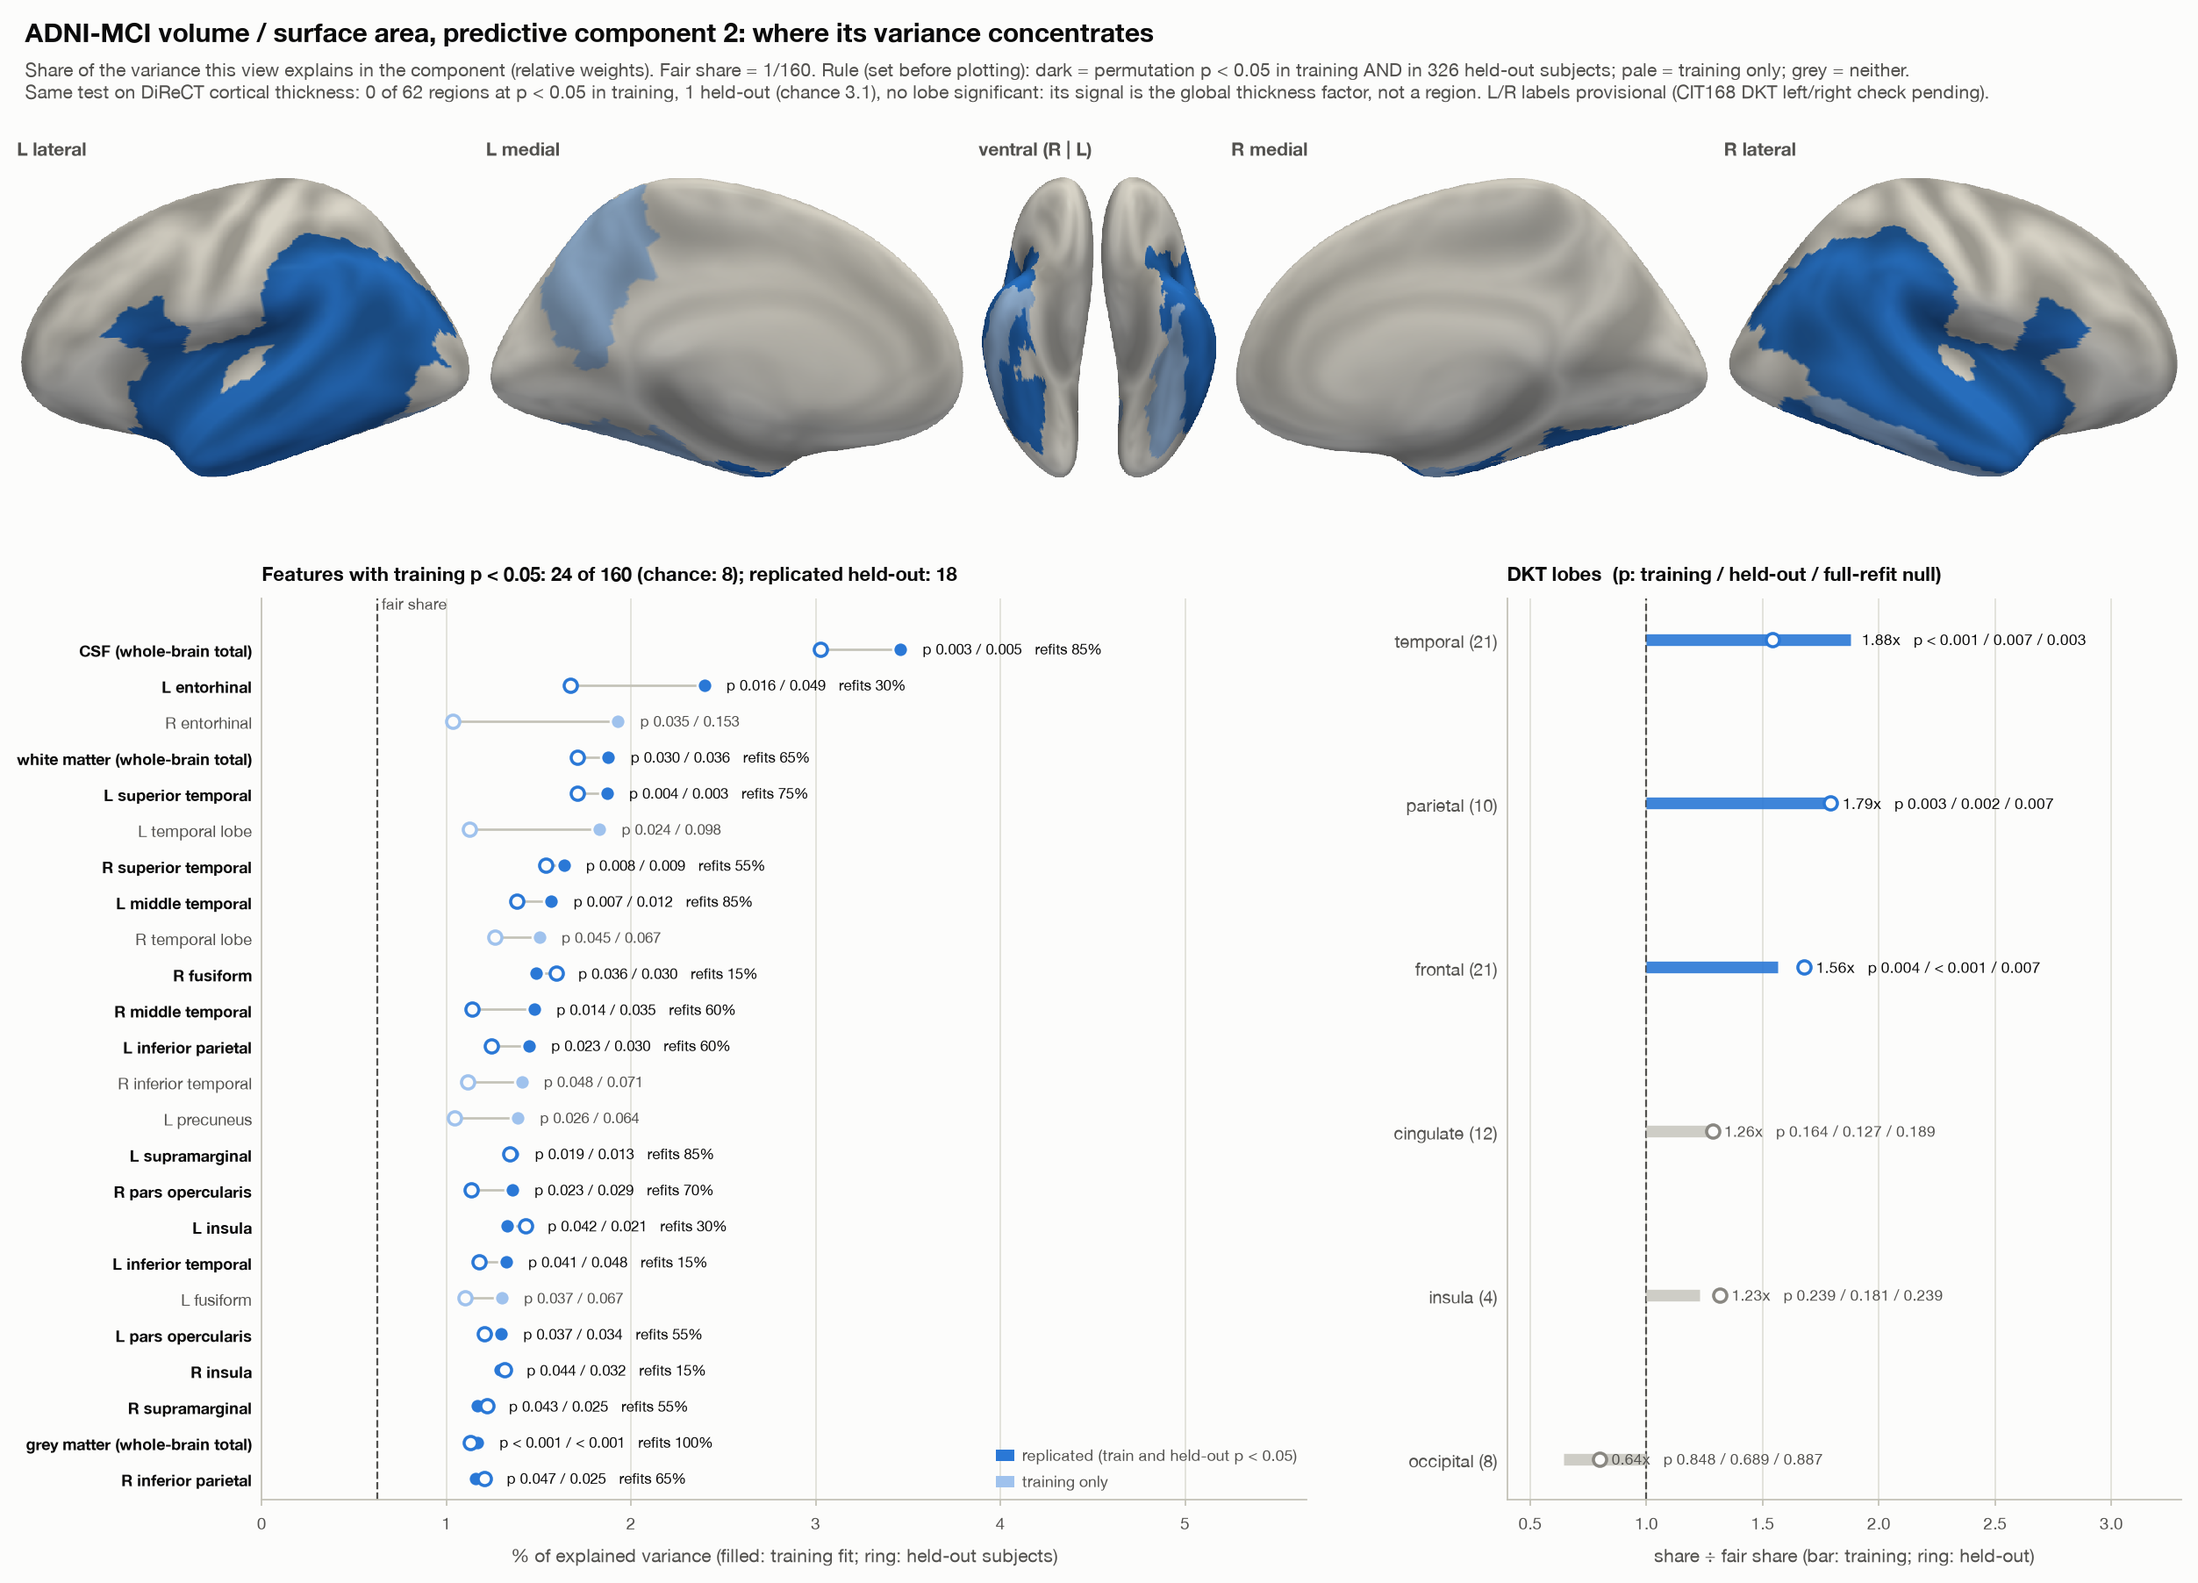
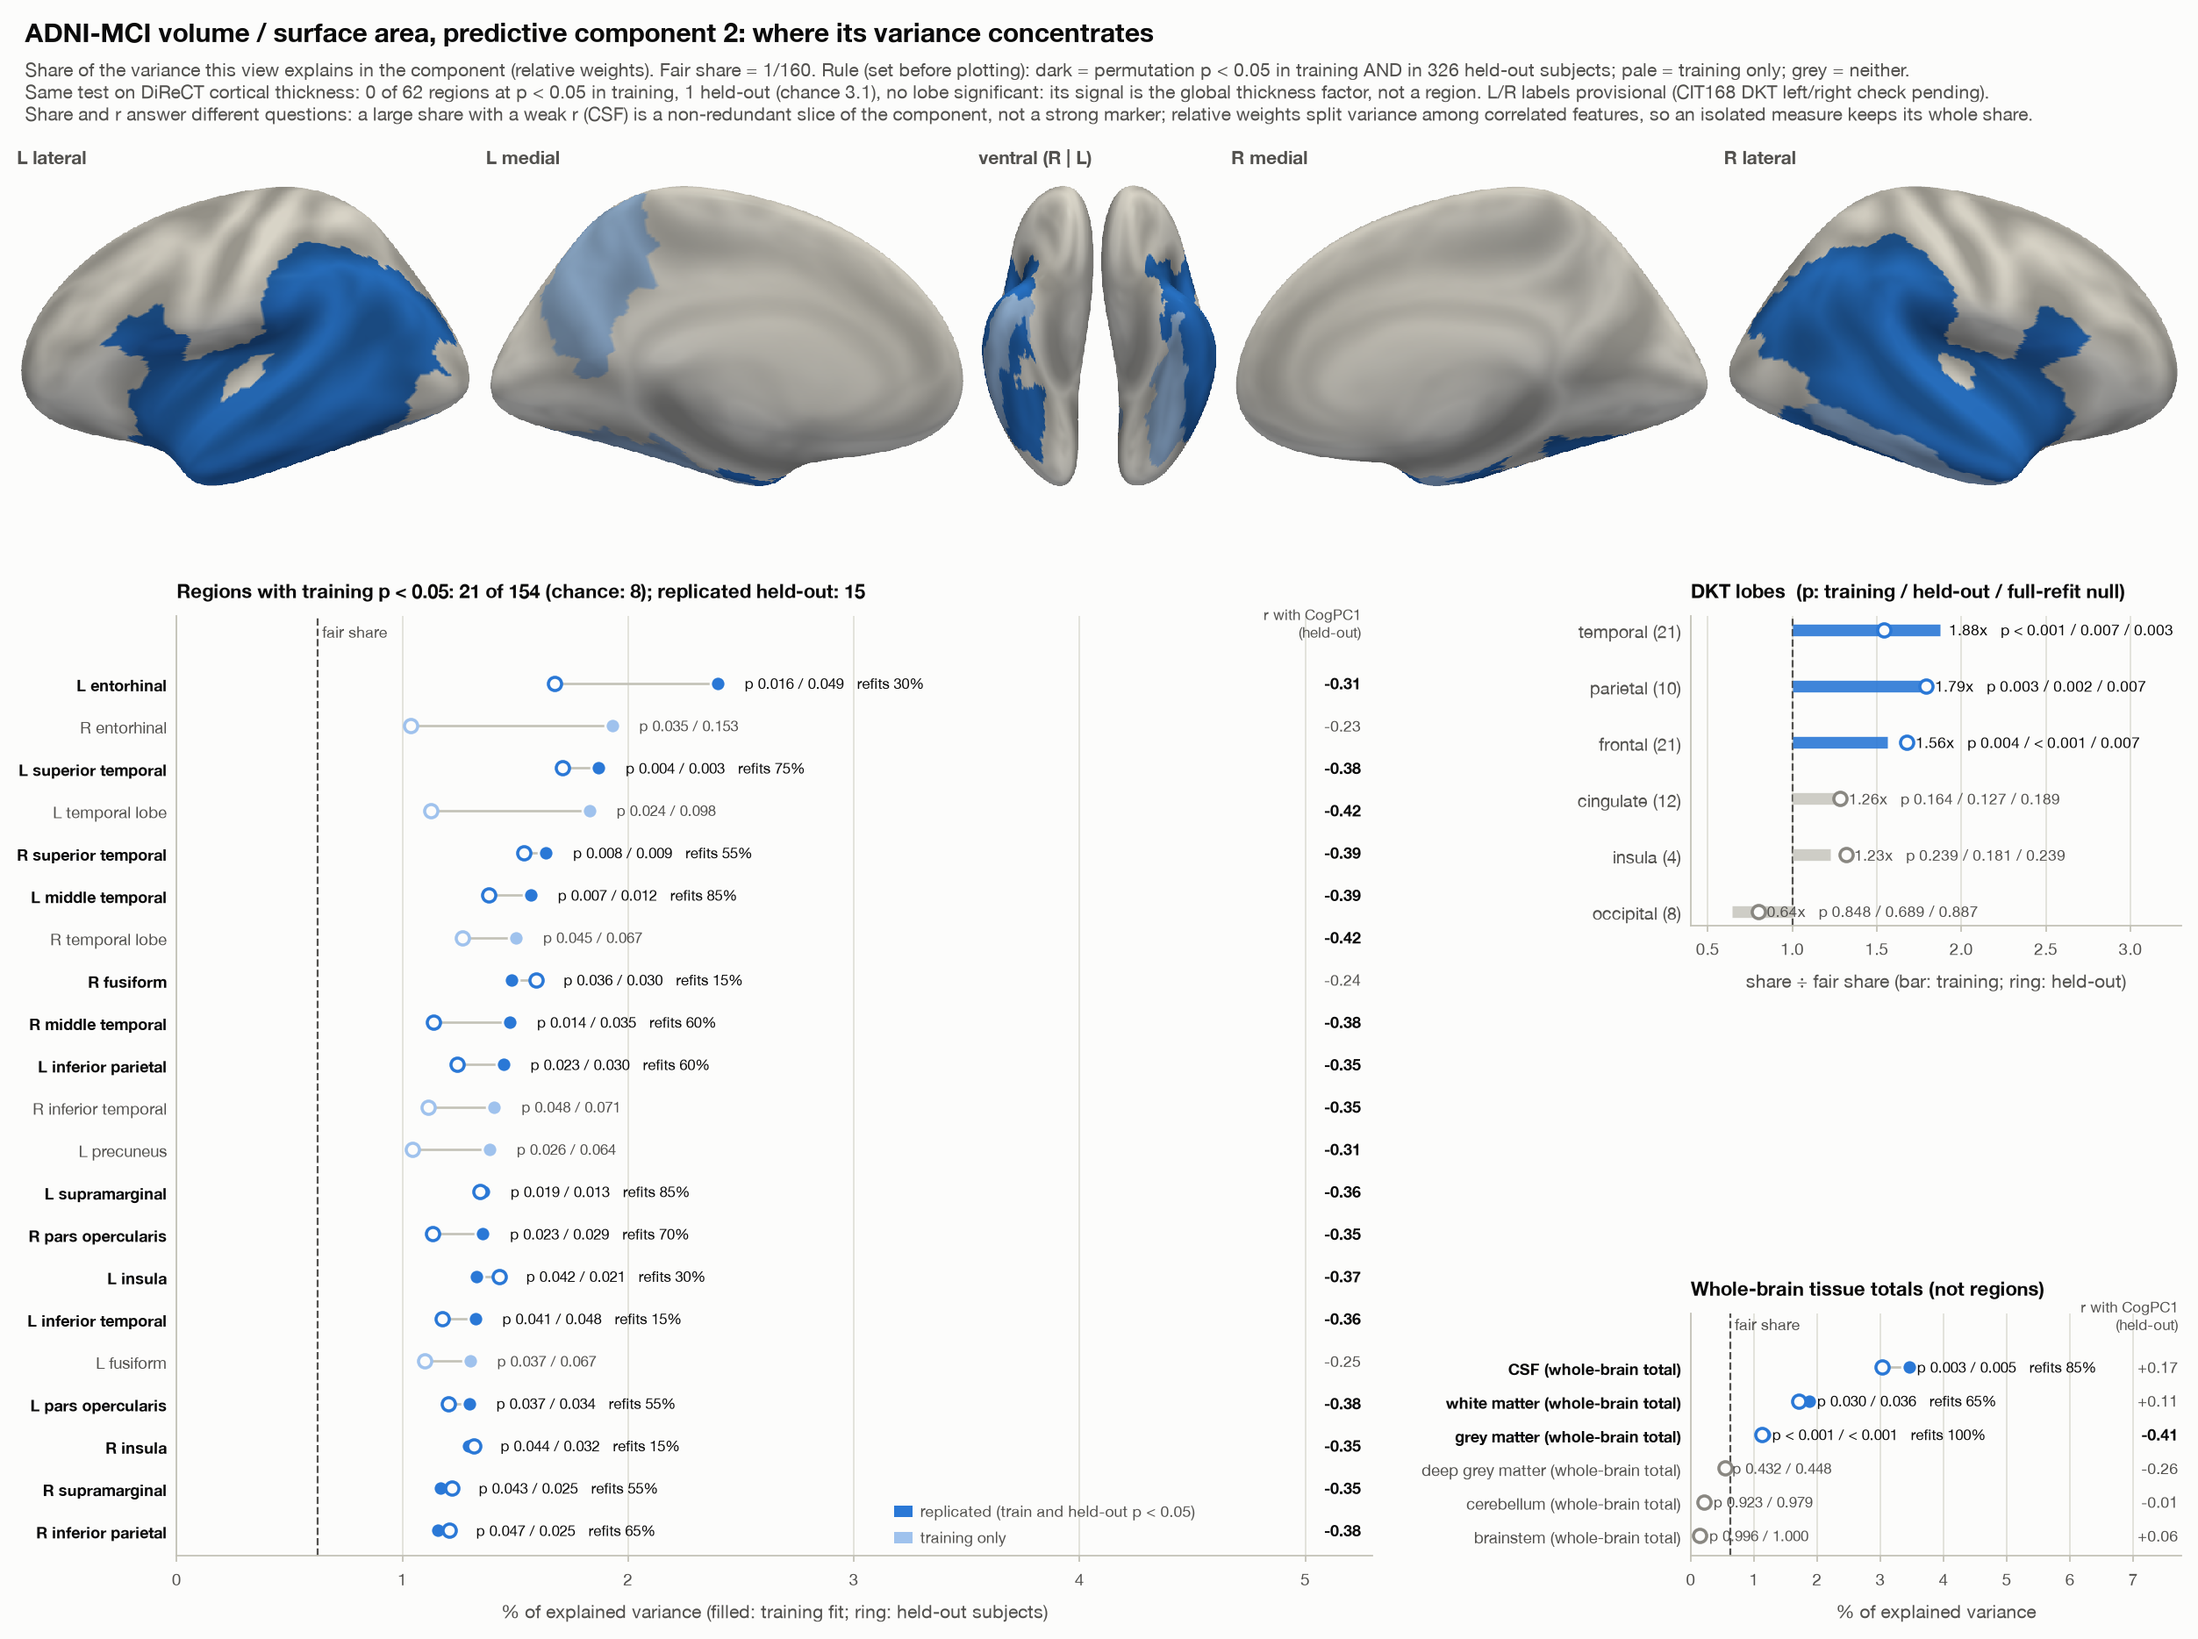
fix(scripts): relevance figure separates whole-brain totals and shows held-out r with CogPC1 (D21)
CSF headed the feature list. Checked: csftissues (CSF volume / surface area,
a global atrophy index) has the largest share because it is nearly
uncorrelated with the other 159 features (mean |r| 0.16), so relative
weights leave its whole slice with it; its held-out r with CogPC1 is only
+0.17 (direction: wider CSF, worse cognition), against -0.31 to -0.42 for the
replicated cortical regions and -0.41 for total grey matter.
- Whole-brain tissue totals move to their own panel (not regions).
- Every row shows its held-out correlation with CogPC1 beside its share.
- The subtitle states why share and r differ.

diff --git a/scripts/adni_relevance_figure.py b/scripts/adni_relevance_figure.py
@@ -21,6 +21,9 @@ f["tier"] = np.where((f.p_train < .05) & (f.p_test < .05), 2, np.where(f.p_train
 dark = COLOR; light = tuple(0.45 * np.array(to_rgb(COLOR)) + 0.55)
 TIER_COL = {2: dark, 1: light, 0: "#d9d8d2"}
 fair = 1 / len(f)
+import paper_adni_ablations as paa                                   # held-out r with CogPC1, per feature
+_d = paa.protocol_b(42)
+RCOG = {n: float(np.corrcoef(_d["x_te"][1][:, i], _d["pc1_te"])[0, 1]) for i, n in enumerate(_d["names"][1])}
 
 
 def pretty(n):
@@ -49,45 +52,64 @@ for hemi, view, _ in cols:
 aspect = [im.shape[1] / im.shape[0] for im in imgs]
 
 with theme():
-    fig = _new((15.5, 11.2), "ADNI-MCI volume / surface area, predictive component 2: where its variance concentrates",
+    fig = _new((15.5, 11.6), "ADNI-MCI volume / surface area, predictive component 2: where its variance concentrates",
                "Share of the variance this view explains in the component (relative weights). Fair share = 1/160. "
                "Rule (set before plotting): dark = permutation p < 0.05 in training AND in 326 held-out subjects; "
                "pale = training only; grey = neither.\nSame test on DiReCT cortical thickness: 0 of 62 regions at p < 0.05 "
                "in training, 1 held-out (chance 3.1), no lobe significant: its signal is the global thickness factor, not a "
-               "region. L/R labels provisional (CIT168 DKT left/right check pending).")
+               "region. L/R labels provisional (CIT168 DKT left/right check pending).\n"
+               "Share and r answer different questions: a large share with a weak r (CSF) is a non-redundant slice of the "
+               "component, not a strong marker; relative weights split variance among correlated features, so an isolated "
+               "measure keeps its whole share.")
     gs = fig.add_gridspec(2, len(cols), height_ratios=[1, 2.3], width_ratios=aspect)
     for c, (im, (_, _, head)) in enumerate(zip(imgs, cols)):
         ax = fig.add_subplot(gs[0, c]); ax.imshow(im); ax.axis("off"); ax.set_title(head, fontsize=9.5, color=_INK2)
     sub = gs[1, :].subgridspec(1, 2, width_ratios=[1.55, 1], wspace=0.08)
 
-    # ---- forest: every feature passing in training, plus grey context rows
+    # ---- forest: regional features passing in training; whole-brain totals get their own panel
+    def draw_forest(ax, show, title, legend, room=2.9):
+        y = np.arange(len(show))
+        top = 100 * show[["share_train", "share_test"]].max().max()
+        xmax = top + room                                    # room for the p / refits text and the r column
+        ax.axvline(100 * fair, color=_INK2, lw=1, ls="--", zorder=1)
+        ax.text(100 * fair, -1.0, " fair share", fontsize=8, color=_INK2, va="bottom")
+        ax.text(xmax - 0.05, -1.0, "r with CogPC1\n(held-out)", fontsize=7.6, color=_INK2, ha="right", va="bottom")
+        for yi, (_, r) in zip(y, show.iterrows()):
+            c = TIER_COL[r.tier]
+            ax.plot([100 * r.share_train, 100 * r.share_test], [yi, yi], color=_AXIS, lw=1.2, zorder=1)
+            ax.scatter(100 * r.share_train, yi, s=58, color=c, edgecolors="#fcfcfb", linewidths=1.2, zorder=3)
+            ax.scatter(100 * r.share_test, yi, s=46, facecolor="#fcfcfb", edgecolors=c if r.tier else _MUTED,
+                       linewidths=1.6, zorder=3)
+            ax.text(100 * max(r.share_train, r.share_test) + 0.12, yi,
+                    f"p {fp(r.p_train)} / {fp(r.p_test)}"
+                    + (f"   refits {r.refit_p05_freq:.0%}" if r.tier == 2 and np.isfinite(r.refit_p05_freq) else ""),
+                    va="center", fontsize=7.6, color=_INK if r.tier == 2 else _INK2)
+            ax.text(xmax - 0.05, yi, f"{RCOG[r.feature]:+.2f}", va="center", ha="right", fontsize=8,
+                    color=_INK if abs(RCOG[r.feature]) >= 0.3 else _INK2,
+                    weight="semibold" if abs(RCOG[r.feature]) >= 0.3 else "normal")
+        ax.set_yticks(y); ax.set_yticklabels([pretty(n) for n in show.feature], fontsize=8.3)
+        for lbl, t in zip(ax.get_yticklabels(), show.tier):
+            lbl.set_color(_INK if t == 2 else _INK2); lbl.set_fontweight("semibold" if t == 2 else "normal")
+        ax.set_ylim(len(show) - 0.4, -1.6); ax.set_xlim(0, xmax)
+        _clean(ax, grid="x")
+        ax.set_title(title, fontsize=10)
+        if legend:
+            ax.legend(handles=[Patch(color=dark, label="replicated (train and held-out p < 0.05)"),
+                               Patch(color=light, label="training only")], loc="lower right", frameon=False,
+                      fontsize=8, bbox_to_anchor=(0.86, 0.0))
+
+    is_total = f.feature.str.endswith("tissues")
+    regions = f[~is_total & (f.tier > 0)].sort_values("share_train", ascending=False)
+    totals = f[is_total].sort_values("share_train", ascending=False)
     ax = fig.add_subplot(sub[0, 0])
-    show = f[f.tier > 0].sort_values("share_train", ascending=False)
-    y = np.arange(len(show))
-    ax.axvline(100 * fair, color=_INK2, lw=1, ls="--", zorder=1)
-    ax.text(100 * fair, -1.0, " fair share", fontsize=8, color=_INK2, va="bottom")
-    for yi, (_, r) in zip(y, show.iterrows()):
-        c = TIER_COL[r.tier]
-        ax.plot([100 * r.share_train, 100 * r.share_test], [yi, yi], color=_AXIS, lw=1.2, zorder=1)
-        ax.scatter(100 * r.share_train, yi, s=58, color=c, edgecolors="#fcfcfb", linewidths=1.2, zorder=3)
-        ax.scatter(100 * r.share_test, yi, s=46, facecolor="#fcfcfb", edgecolors=c if r.tier else _MUTED,
-                   linewidths=1.6, zorder=3)
-        ax.text(100 * max(r.share_train, r.share_test) + 0.12, yi,
-                f"p {fp(r.p_train)} / {fp(r.p_test)}" + (f"   refits {r.refit_p05_freq:.0%}" if r.tier == 2 else ""),
-                va="center", fontsize=7.6, color=_INK if r.tier == 2 else _INK2)
-    ax.set_yticks(y); ax.set_yticklabels([pretty(n) for n in show.feature], fontsize=8.3)
-    for lbl, t in zip(ax.get_yticklabels(), show.tier):
-        lbl.set_color(_INK if t == 2 else _INK2); lbl.set_fontweight("semibold" if t == 2 else "normal")
-    ax.set_ylim(len(show) - 0.4, -1.4); ax.set_xlim(0, 100 * show[["share_train", "share_test"]].max().max() + 2.2)
+    nreg = int((~is_total).sum())
+    draw_forest(ax, regions, f"Regions with training p < 0.05: {int((f.tier[~is_total] > 0).sum())} of {nreg} "
+                f"(chance: {0.05 * nreg:.0f}); replicated held-out: {int((f.tier[~is_total] == 2).sum())}", True)
     ax.set_xlabel("% of explained variance (filled: training fit; ring: held-out subjects)")
-    _clean(ax, grid="x")
-    ax.set_title(f"Features with training p < 0.05: {int((f.tier > 0).sum())} of {len(f)} "
-                 f"(chance: {0.05 * len(f):.0f}); replicated held-out: {int((f.tier == 2).sum())}", fontsize=10)
-    ax.legend(handles=[Patch(color=dark, label="replicated (train and held-out p < 0.05)"),
-                       Patch(color=light, label="training only")], loc="lower right", frameon=False, fontsize=8)
+    right = sub[0, 1].subgridspec(2, 1, height_ratios=[6, 2.6 + 0.35 * len(totals)], hspace=0.35)
 
     # ---- lobes
-    ax = fig.add_subplot(sub[0, 1])
+    ax = fig.add_subplot(right[0, 0])
     lb = g[g.group.str.startswith("lobe")].copy(); lb["name"] = lb.group.str.replace("lobe ", "")
     lb = lb.sort_values("ratio_fair", ascending=True)
     yy = np.arange(len(lb))
@@ -107,5 +129,10 @@ with theme():
     full = np.isfinite(lb.p_fullrefit_null).any()
     ax.set_title("DKT lobes  (p: training / held-out" + (" / full-refit null)" if full else ")"), fontsize=10)
     _clean(ax, grid="x")
+
+    # ---- whole-brain totals: on a different footing from regions (one number per brain)
+    ax = fig.add_subplot(right[1, 0])
+    draw_forest(ax, totals, "Whole-brain tissue totals (not regions)", False, room=4.3)
+    ax.set_xlabel("% of explained variance")
     out = os.path.join(W, "docs", "figures", "adni_volarea_relevance.png")
     fig.savefig(out, dpi=160); print("wrote", out)
